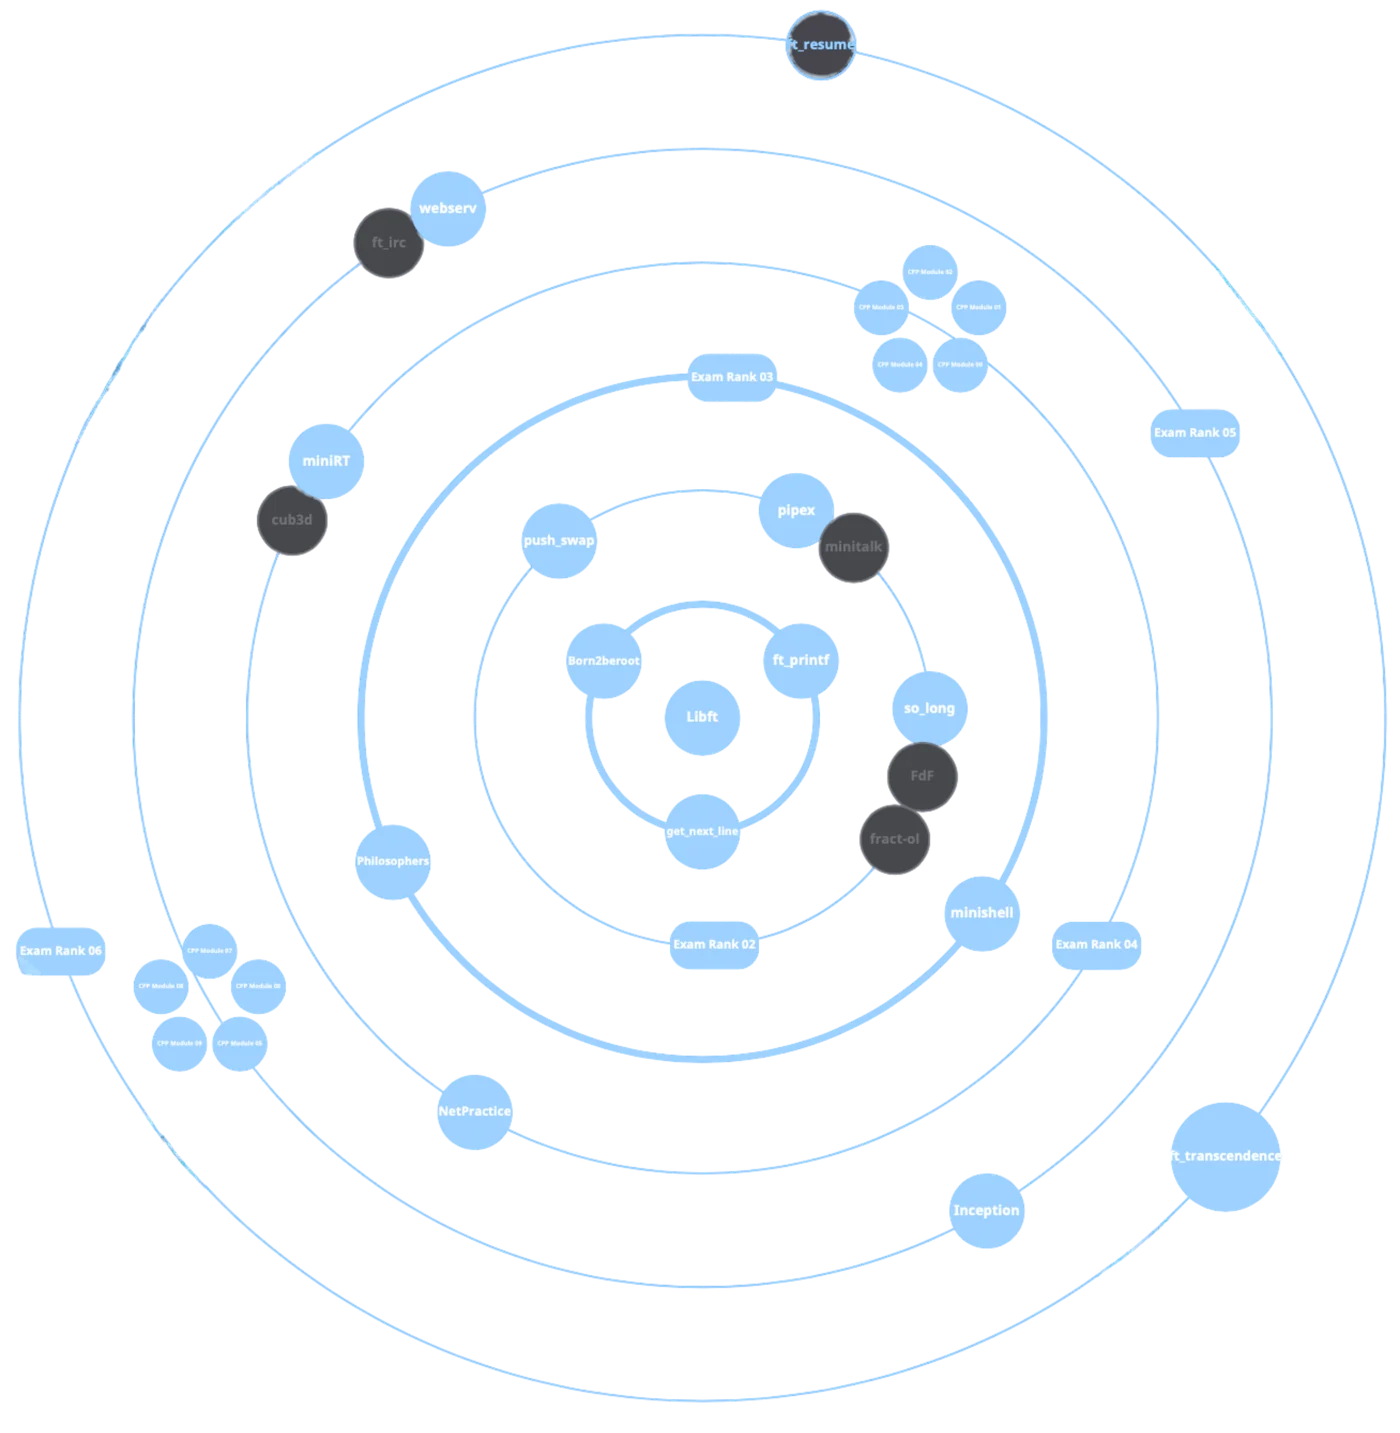
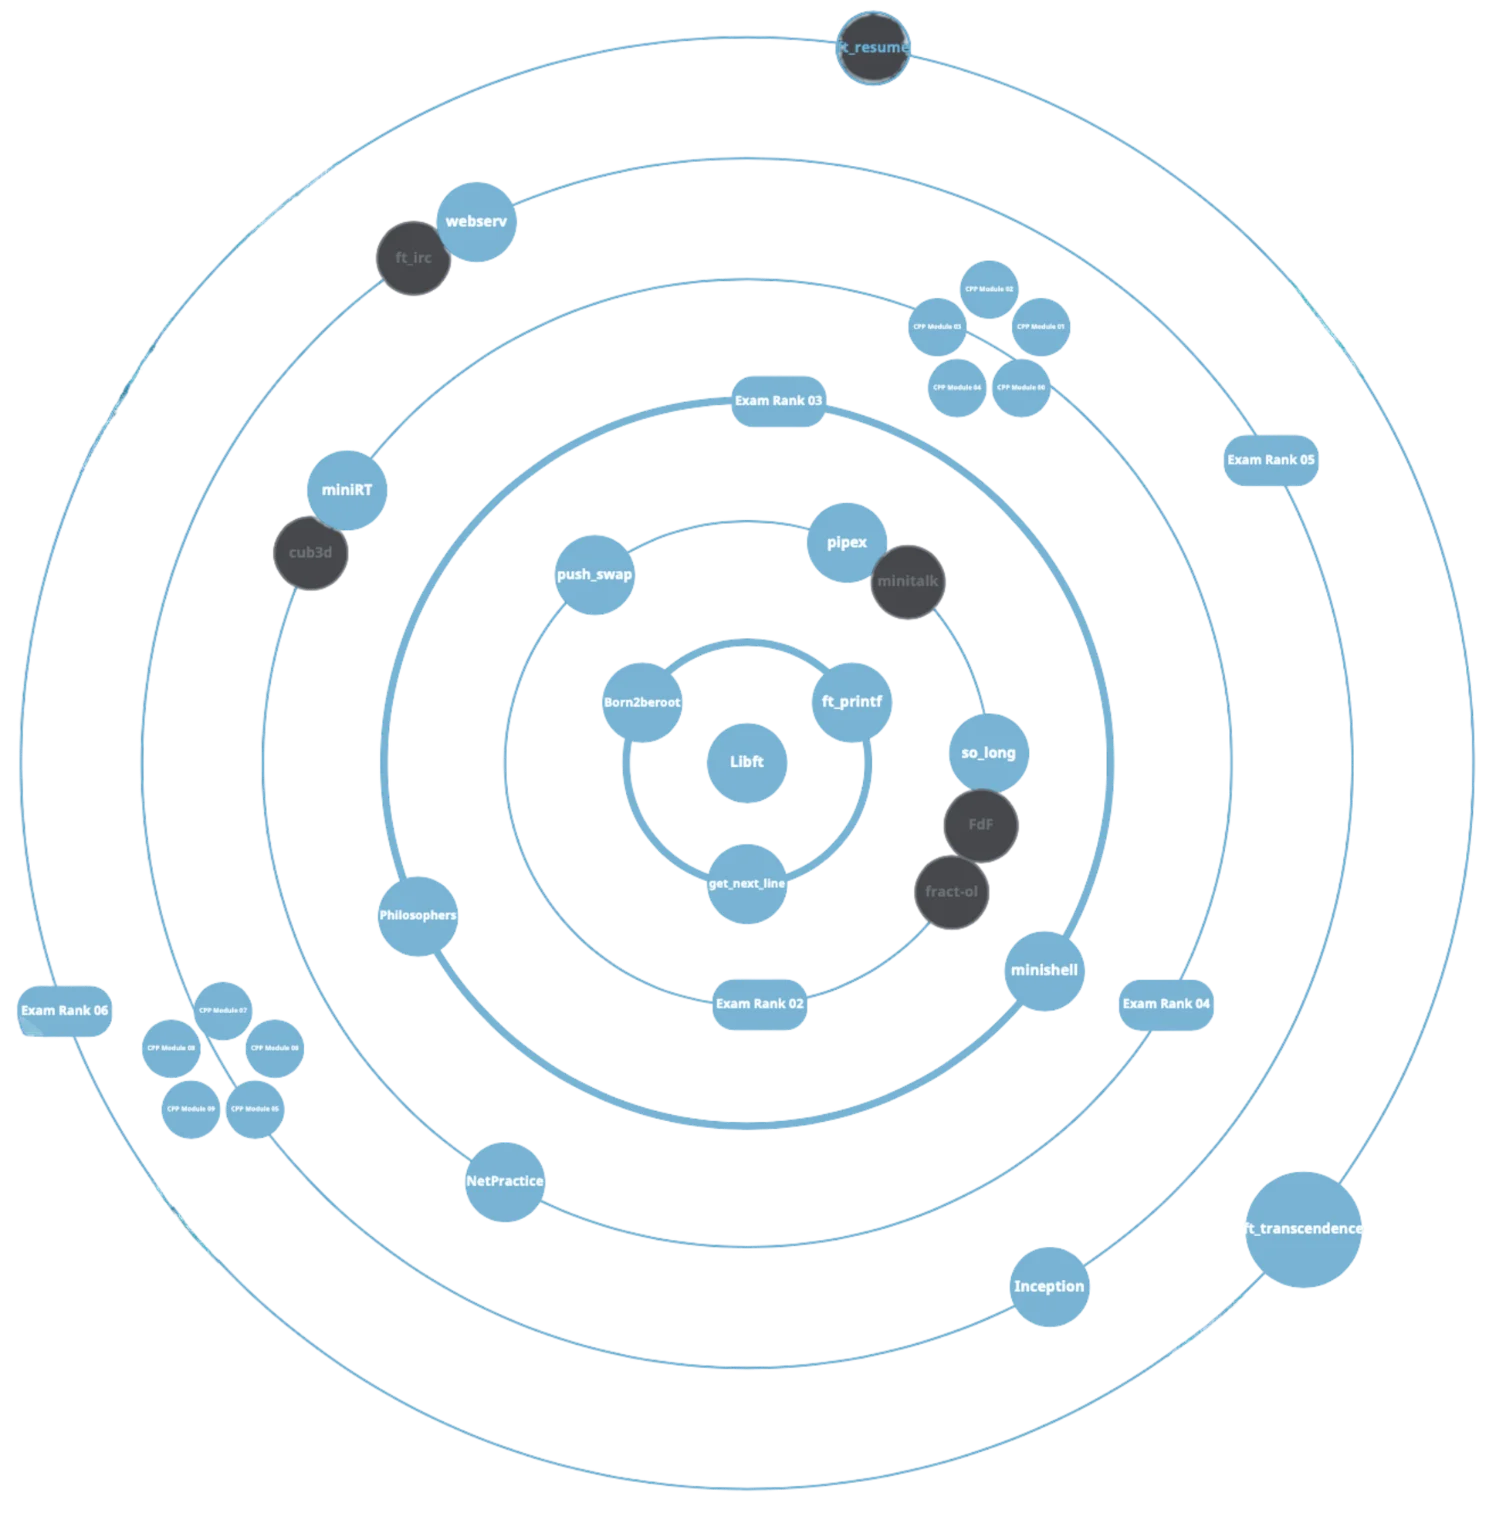
fixed a bit the coding hub page. also the credly certificate i change only one string and i have it either dark or bright mode.

diff --git a/src/pages/WorldHub.tsx b/src/pages/WorldHub.tsx
@@ -3,7 +3,8 @@ import Page from '../components/Page'
 import Card from '../components/Card'
 import { biologyHub, codingHub, pagesByWorld, worlds, type World } from '../content'
 import { accent, inline } from '../richText'
-import certificateImg from '../assets/school42/credly.webp'
+import certificateDark from '../assets/school42/credly.webp'
+import certificateBright from '../assets/school42/credly-bright.webp'
 import holyGraphImg from '../assets/school42/holy-graph.webp'
 import MediaView from '../components/MediaView'
 import showcaseVideo from '../assets/molecularBiology/showcase.mp4'
@@ -13,6 +14,14 @@ import laptopFrame from '../assets/molecularBiology/laptop-frame.webp'
 // Where the screen sits inside the laptop frame image (1309 x 699 px, widened so the screen is 16:9;
 // screen at 152,52, 999 x 562 px), as percentages, with about 1 px extra so no gap shows under the bezel.
 const laptopScreen = { left: '11.55%', top: '7.35%', width: '76.45%', height: '80.6%' }
+
+// Which certificate image the coding hub shows: 'dark' (my Canva dark edit) or 'bright' (the original white one).
+// Change this one word to compare them. Each has its own size class so the height still follows the text column.
+const CERTIFICATE: 'dark' | 'bright' = 'dark'
+const certificates = {
+  dark: { src: certificateDark, width: 'lg:w-[min(100cqw,calc(100cqh*1200/840))]' },
+  bright: { src: certificateBright, width: 'lg:w-[min(100cqw,calc(100cqh*993/699))]' },
+}
 
 export default function WorldHub({ world }: { world: World }) {
   const w = worlds[world]
@@ -27,10 +36,7 @@ export default function WorldHub({ world }: { world: World }) {
       <Link to="/" className="text-sm text-muted hover:text-text">← Home</Link>
       <p className="label mt-10">{w.period}</p>
       {world === 'coding' ? (
-        <>
-          <HubTitle world={world} />
-          <CodingIntro />
-        </>
+        <CodingIntro />
       ) : (
         <BiologyIntro />
       )}
@@ -54,37 +60,62 @@ function CodingIntro() {
 
   return (
     <>
-      <div className="mt-6 max-w-3xl space-y-4 text-lg leading-relaxed text-muted">
-        {codingHub.intro.map((p) => <p key={p}>{p}</p>)}
-      </div>
-      <p className="mt-6 max-w-3xl border-l-2 border-[#7cc8f5]/60 pl-4 text-[#a6dcfa]">{codingHub.ranking}</p>
-
-      {/* Certificate and Holy Graph side by side on wide screens. */}
-      <h2 className="mt-16 text-xl font-semibold">{codingHub.certificate.heading}</h2>
-      <div className="mt-6 grid gap-8 lg:grid-cols-2">
-        <figure>
+      {/* Same layout as the Molecular Biology hub: title, facts and paragraphs on the left; the
+          certificate on the right (40%), its top level with the title. */}
+      <div className="grid gap-10 lg:grid-cols-[minmax(0,6fr)_minmax(0,4fr)]">
+        <div className="space-y-6 text-muted">
+          <HubTitle world="coding" />
+          <ul className="space-y-1 text-text">{codingHub.facts.map((f, i) => (
+            <li key={f}>
+              {f}
+              {/* The first fact links to the 42 Network site; arrow only, no underline. */}
+              {i === 0 && (
+                <a href={codingHub.networkLink} target="_blank" rel="noreferrer" aria-label="The 42 Network website (opens in a new tab)"
+                  className="ml-2 inline-block text-[#7cc8f5] transition-transform duration-200 hover:-translate-y-0.5 hover:translate-x-0.5">↗</a>
+              )}
+            </li>
+          ))}</ul>
+          <ul className="space-y-3 text-sm">
+            {codingHub.about.map((n) => <li key={n} className={`border-l-2 pl-3 text-pretty ${accent.coding.bar}`}>{inline(n, accent.coding)}</li>)}
+          </ul>
+        </div>
+        {/* On wide screens this cell takes the height of the text column (from the top of the title to the
+            end of the notes), and the certificate is as tall as that, about centred between the text and the right edge. */}
+        <figure className="flex items-start justify-end lg:mt-4 lg:pr-12 lg:[container-type:size]">
           {/* Opens the official PDF in a new tab, like the GitHub and LinkedIn links. */}
-          <a href={codingHub.certificate.pdf} target="_blank" rel="noreferrer" className="group/cert relative block overflow-hidden rounded-2xl border border-[#7cc8f5]/30 transition-all duration-300 hover:border-[#7cc8f5]/80 hover:shadow-[0_0_40px_-6px_rgba(124,200,245,0.55)]">
-            <img src={certificateImg} alt="42 certificate of completion: Curriculum of Architect in Digital Technologies" loading="lazy" className="w-full transition-transform duration-500 group-hover/cert:scale-[1.02]" />
-            <span className="absolute bottom-3 right-3 rounded-full bg-black/70 px-3 py-1.5 text-sm text-[#7cc8f5] opacity-0 backdrop-blur-sm transition-opacity duration-300 group-hover/cert:opacity-100 group-focus-visible/cert:opacity-100">
-              Open the official certificate ↗
+          <a href={codingHub.certificate.pdf} target="_blank" rel="noreferrer" className={`group/cert relative block w-full ${certificates[CERTIFICATE].width} overflow-hidden rounded-2xl border border-[#7cc8f5]/30 transition-all duration-300 hover:border-[#7cc8f5]/80 hover:shadow-[0_0_40px_-6px_rgba(124,200,245,0.55)]`}>
+            <img src={certificates[CERTIFICATE].src} alt="42 certificate of completion: Curriculum of Architect in Digital Technologies" className="w-full transition-transform duration-500 group-hover/cert:scale-[1.02]" />
+            <span className="absolute bottom-2 right-2 rounded-full bg-black/70 px-2.5 py-1 text-xs text-[#7cc8f5] opacity-0 backdrop-blur-sm transition-opacity duration-300 group-hover/cert:opacity-100 group-focus-visible/cert:opacity-100">
+              Open the certificate ↗
             </span>
           </a>
-          <figcaption className="mt-4 text-muted leading-relaxed">
-            {codingHub.certificate.text}
-            {codingHub.certificate.link && (
-              <> <a href={codingHub.certificate.link} target="_blank" rel="noreferrer" className="text-[#7cc8f5] hover:underline">See it on Credly ↗</a></>
-            )}
-          </figcaption>
         </figure>
-        <figure>
-          <img src={holyGraphImg} alt="The 42 Holy Graph, with the completed core curriculum projects highlighted" loading="lazy" className="mx-auto w-full max-w-md rounded-2xl mix-blend-lighten" />
-          <figcaption className="mt-4 text-muted leading-relaxed">{codingHub.holyGraph}</figcaption>
-        </figure>
+      </div>
+      <div className="mt-10 space-y-6 text-muted leading-relaxed">
+        {codingHub.intro.map((p) => <p key={p}>{inline(p, accent.coding)}</p>)}
+      </div>
+
+      {/* Same pills as the lab techniques on the Molecular Biology hub. */}
+      <div className="mt-16 text-muted">
+        <h2 className="label !text-base">{codingHub.skills.heading}</h2>
+        <div className="mt-6 flex flex-wrap gap-2">
+          {codingHub.skills.items.map((t) => (
+            <span key={t} className="rounded-full border border-line px-3 py-1 text-sm">{t}</span>
+          ))}
+        </div>
+      </div>
+
+      {/* Holy Graph on the left (30%), the coursework text next to it. */}
+      <div className="mt-16 grid items-center gap-10 lg:grid-cols-[minmax(0,3fr)_minmax(0,7fr)]">
+        <img src={holyGraphImg} alt="The 42 Holy Graph, with the completed core curriculum projects highlighted" loading="lazy" className="mx-auto w-full max-w-sm mix-blend-lighten" />
+        <div className="text-muted leading-relaxed">
+          <h2 className={`label !text-base ${accent.coding.heading}`}>{codingHub.coursework.heading}</h2>
+          {codingHub.coursework.text.map((p) => <p key={p} className="mt-5 text-pretty">{inline(p, accent.coding)}</p>)}
+        </div>
       </div>
 
       {/* Full project list, hidden until the visitor opens it. */}
-      <details className="group mt-10 rounded-2xl border border-[#7cc8f5]/30 bg-surface backdrop-blur-sm transition-colors duration-300 hover:border-[#7cc8f5]/55 hover:bg-white/[0.04]">
+      <details className="group mt-12 rounded-2xl border border-[#7cc8f5]/30 bg-surface backdrop-blur-sm transition-colors duration-300 hover:border-[#7cc8f5]/55 hover:bg-white/[0.04]">
         <summary className="flex cursor-pointer list-none items-center justify-between gap-4 p-5 text-[#7cc8f5] [&::-webkit-details-marker]:hidden">
           <span className="sweep-coding font-medium">See the full list of core curriculum projects</span>
           <span aria-hidden className="text-xl transition-transform duration-300 group-hover:-translate-x-1 group-open:rotate-45">+</span>

diff --git a/src/content.ts b/src/content.ts
@@ -197,18 +197,43 @@ export const leadership: { title: string; text: string }[] = [
 // curriculum: the core curriculum from the 42 transcript, shown in the expandable table.
 // Exams are left out because they have no description or workload.
 export const codingHub = {
-  intro: [
-    '42 has no classes and no teachers. Its curriculum is project-based and peer-to-peer: students “learn to learn” by building projects together and taking ideas from each other.',
-    'I joined 42 Heilbronn on a full scholarship in March 2023.',
+  facts: [
+    '42 Graduate, part of a worldwide network of 50+ campuses and 9,000+ alumni',
+    'Project-based curriculum & Peer-to-peer learning',
+    '25 coding projects completed',
   ],
-  ranking: 'In 2026, the World University Rankings for Innovation (WURI) named 42 the 3rd most innovative educational institution in the world.',
+  networkLink: 'https://www.42network.org', // the arrow after the first fact
+  // Short notes about 42 itself, shown with a side bar under the facts.
+  about: [
+    '42 is a non-profit network of tuition-free IT schools, founded in Paris in 2013 and now in more than 30 countries. In 2026, it was named the ==world’s 3rd most innovative educational institution==.',
+    'No teachers, no classes, and campuses open 24/7. Students learn by building projects together: they search, experiment, explain their ideas to each other and take turns helping and being helped.',
+  ],
+  // My own paragraph, full width under the facts and the certificate.
+  intro: [
+    'I joined 42 Heilbronn on a full scholarship in March 2023, and it was ==one of the hardest and best experiences of my life==! It taught me to code, but above all it taught me how to learn. A few months in, having only just started with C, we were asked to build our own bash shell in C. Before 42 I would have called that impossible. The 42 motto, “_ask your peer on the left, ask your peer on the right, Google is your friend_”, really works: with supportive peers, what looks impossible becomes doable. I left 42 believing I can build what I set my mind to, with a strong **C and C++ foundation** that makes new programming languages easy to learn.',
+  ],
   certificate: {
     heading: 'Core curriculum, completed',
     text: 'In September 2026 I completed the core curriculum and received 42’s certificate “Curriculum of Architect in Digital Technologies”, at Junior Developer level.',
     pdf: 'https://drive.google.com/file/d/1BWljwkQD3v05ia4kNPe_8_6_ULGgZ3iH/view', // official certificate (PDF on Google Drive), opens in a new tab
     link: '', // TODO: the Credly badge URL
   },
-  holyGraph: 'The Holy Graph is 42’s map of the core curriculum. Every project I completed is lit up in blue.',
+  // Pills under my paragraph, like the lab techniques on the Molecular Biology hub.
+  skills: {
+    heading: 'Languages & tools',
+    items: [
+      'C', 'C++', 'Python', 'TypeScript', 'HTML & CSS', 'Tailwind CSS', 'Git', 'Docker', 'Linux & Unix',
+      'Makefiles', 'Memory management', 'Processes & pipes', 'Threads & mutexes', 'Algorithms & data structures',
+      'Object-oriented programming', 'STL & templates', 'Networking (TCP/IP)', 'UX/UI design',
+    ],
+  },
+  coursework: {
+    heading: 'Coursework',
+    text: [
+      'The core curriculum is a ==gamified system of ranks==, from 0 to 6. Each rank is one circle on the Holy Graph, with harder projects than the last, and it only opens once the rank before it is complete: every new student starts with a single project, and each finished circle unlocks the next. This keeps the learning structured rather than scattered, as **every project builds on the knowledge of the circle before it**. Along the way came **five 3-hour exams**, coded completely blind, without even code completion, so every line had to be understood. The projects I completed are lit up in blue.',
+      'It started with **Libft**, rebuilding parts of the C standard library, then moved through file handling, Unix processes and pipes, sorting algorithms, a first 2D game and concurrency with threads, all in C, to the first big team projects, **minishell** and **miniRT**. The second half brought **C++**, from object-oriented basics to templates and the STL, an HTTP server (**webserv**) and Docker infrastructure (**Inception**), and it ended with **ft_transcendence**, a full-stack web platform built by a team of five: ==PongJam==.',
+    ],
+  },
   curriculum: [
     { rank: 0, projects: [
       { name: 'Libft', details: 'Reimplementation of key C standard library functions and custom utilities.', hours: 70 },

diff --git a/src/index.css b/src/index.css
@@ -48,14 +48,14 @@ section[id], footer[id] { scroll-margin-top: 6rem; }
 /* The two worlds in the slogan. The span wraps over two lines; "slice" makes the gradient
    run continuously across both lines, as if they were one long line. */
 .worlds-gradient {
-  background: linear-gradient(90deg, #f5f2ff 0%, #c9b6ff 16%, #a78bfa 32%, #9d8ffa 44%, #8fa8ff 58%, #84c0f6 78%, #7cd3f2 100%);
+  background: linear-gradient(90deg, #f5f2ff 0%, #c9b6ff 16%, #a78bfa 32%, #9d8ffa 44%, #8fa8ff 58%, #84c0f6 78%, #7cc8f5 100%);
   -webkit-background-clip: text; background-clip: text; color: transparent;
   -webkit-box-decoration-break: slice; box-decoration-break: slice;
 }
 /* Hub page titles: white fading into the colour of that world (cyan for software, purple for biology).
    Used on an inline span, like the home slogan, so letters such as g are not cut at the bottom. */
 .hub-gradient-coding {
-  background: linear-gradient(90deg, #ffffff 0%, #e6f6fe 30%, #a6dcfa 65%, #7cd3f2 100%);
+  background: linear-gradient(90deg, #ffffff 0%, #e6f6fe 30%, #a6dcfa 65%, #7cc8f5 100%);
   -webkit-background-clip: text; background-clip: text; color: transparent;
   -webkit-box-decoration-break: slice; box-decoration-break: slice;
 }
